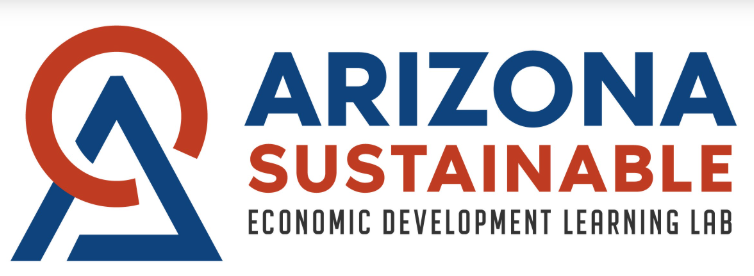
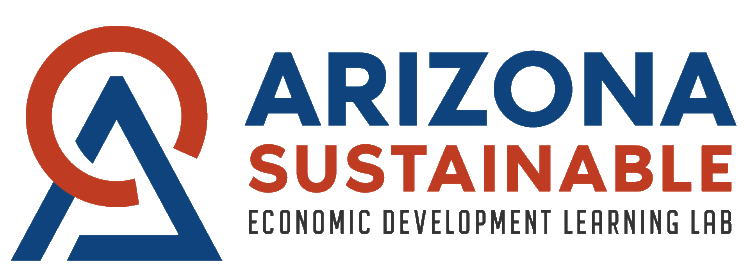
update sponsor image with transparent background

diff --git a/src/components/PartnerLogos.jsx b/src/components/PartnerLogos.jsx
@@ -4,13 +4,13 @@ import { ChevronLeft, ChevronRight } from "lucide-react";
 // Fill in `url` for each partner once the link document is available.
 // Leave as null and the logo renders without a link (no click-through).
 const PARTNERS = [
-  { name: "Collaboration for Good", file: "cfg.jpg", url: "https://www.collaborationforgood.com" },
-  { name: "City of Phoenix", file: "city-of-phoenix.jpg", url: "https://www.phoenix.gov/" },
+  { name: "Collaboration for Good", file: "cfg.png", url: "https://www.collaborationforgood.com" },
+  { name: "City of Phoenix", file: "city-of-phoenix.png", url: "https://www.phoenix.gov/" },
   { name: "City of Surprise", file: "city-of-surprise.png", url: "https://surpriseaz.gov/economic-development" },
   { name: "Arizona Sustainable Economic Lab", file: "az-sustainable-economic-lab.png", url: "https://www.iedconline.org/pages/az-sustainable/" },
-  { name: "IEDC", file: "iedc.jpg", url: "https://www.iedconline.org/" },
+  { name: "IEDC", file: "iedc.png", url: "https://www.iedconline.org/" },
   { name: "Local First Arizona", file: "local-first-arizona.png", url: "https://localfirstaz.com/" },
-  { name: "Flinn Foundation", file: "flinn.jpg", url: "https://www.flinn.org/" },
+  { name: "Flinn Foundation", file: "flinn.png", url: "https://www.flinn.org/" },
   { name: "HMA", file: "hma.png", url: "https://hmapr.com/" },
   { name: "2025 Breakthrough", file: "breakthrough.png", url: "https://www.ignitesparkedbybbb.org/bbb-breakthrough-accelerator" },
   { name: "Arizona Forward", file: "horizontal-fullcolor.png", url: "https://arizonaforward.org/" },
